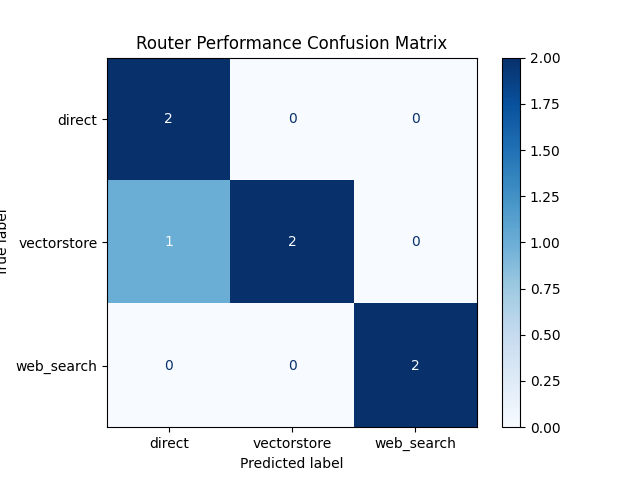
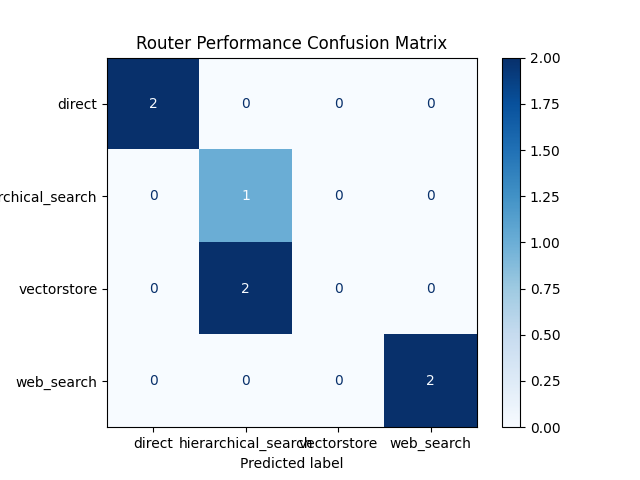
混合检索

diff --git a/evaluation/evaluation.py b/evaluation/evaluation.py
@@ -1,6 +1,6 @@
 # -*- coding: utf-8 -*-
 """
-@desc: RAG各环节评估脚本（已适配分层检索架构）
+@desc: RAG各环节评估脚本（已适配智能混合检索架构）
 """
 import sys
 import os
@@ -26,8 +26,6 @@ from agentic_rag.nodes import (
     rewrite_query_node,
     grade_relevance_node
 )
-# 导入新的分层检索器
-from agentic_rag.hierarchical_retriever import hierarchical_retriever
 # 导入项目中已配置好的llm和embedding function，用于传递给Ragas
 from agentic_rag.chains import llm, get_embedding_function
 
@@ -37,8 +35,7 @@ DATASET_PATH = os.path.join(os.path.dirname(__file__), "golden_dataset.csv")
 
 def evaluate_router():
     """
-    评估路由节点（route_query_node）的性能。
-    此函数无需修改，因为route_query_node内部已更新为分层检索，改动被良好地封装了。
+    评估路由节点（route_query_node）的决策性能。
     """
     print("--- 开始评估【路由】环节 ---")
     
@@ -51,13 +48,27 @@ def evaluate_router():
     predictions = []
     ground_truth = []
 
+    # 更新理想路由以匹配新的策略
+    # 例如，将旧的 'vectorstore' 映射到新的策略
+    def map_ideal_route(row):
+        if row['question'].startswith("解释") or row['question'].startswith("总结"):
+            return "hierarchical_search"
+        # 这是一个简化的示例，您应该根据问题内容更精细地标注
+        if "国家药品编码" in row['question']:
+             return "direct_chunk_search"
+        return row['ideal_route'] # 保留原有的 web_search, direct
+
+    df['ideal_route_new'] = df.apply(map_ideal_route, axis=1)
+
+
     for index, row in tqdm(df.iterrows(), total=df.shape[0], desc="测试路由节点"):
         question = row['question']
-        ideal_route = row['ideal_route']
+        ideal_route = row['ideal_route_new']
         
         initial_state = AgentState(query=question, documents=[], response="", route="", is_relevant=False, updated_query="", error=None)
         
         try:
+            # 只获取路由决策，不关心其返回的文档
             output_state = route_query_node(initial_state)
             predicted_route = output_state.get("route")
         except Exception as e:
@@ -90,9 +101,9 @@ def evaluate_router():
 
 def evaluate_generator_and_retriever():
     """
-    评估检索器和生成器（retriever & generate_response_node）的性能。
+    评估智能路由、检索、生成这条完整链路的端到端性能。
     """
-    print("\n--- 开始评估【检索和生成】环节 ---")
+    print("\n--- 开始评估【端到端检索与生成】环节 ---")
     
     try:
         df = pd.read_csv(DATASET_PATH)
@@ -100,9 +111,10 @@ def evaluate_generator_and_retriever():
         print(f"错误：评估数据集 '{DATASET_PATH}' 未找到ảng")
         return
 
-    rag_questions_df = df[df['ideal_route'] == 'vectorstore'].copy()
+    # 我们将评估所有需要从本地知识库检索的场景
+    rag_questions_df = df[df['ideal_route'].isin(['vectorstore', 'direct_chunk_search', 'hierarchical_search'])].copy()
     if rag_questions_df.empty:
-        print("数据集中没有找到 'ideal_route' 为 'vectorstore' 的问题，跳过生成评估ảng")
+        print("数据集中没有找到需要本地检索的问题，跳过生成评估ảng")
         return
 
     questions = []
@@ -110,35 +122,34 @@ def evaluate_generator_and_retriever():
     retrieved_contexts = []
     ideal_answers = []
 
-    for index, row in tqdm(rag_questions_df.iterrows(), total=rag_questions_df.shape[0], desc="测试生成节点"):
+    for index, row in tqdm(rag_questions_df.iterrows(), total=rag_questions_df.shape[0], desc="测试端到端生成"):
         question = row['question']
         
-        current_state = AgentState(query=question, documents=[], response="", route="vectorstore", is_relevant=False, updated_query="", error=None)
-
+        # --- 模拟真实的Graph执行流程 ---
+        # 1. 调用路由和检索节点
         try:
-            rewrite_output = rewrite_query_node(current_state)
-            current_state['updated_query'] = rewrite_output['updated_query']
+            state_after_route = route_query_node(AgentState(query=question, documents=[], response="", route="", is_relevant=False, updated_query="", error=None))
         except Exception as e:
-            print(f"重写节点执行出错: {e}")
-            current_state['updated_query'] = question
+            print(f"路由节点在评估中出错: {e}")
+            continue
 
-        # --- 修改点：调用新的分层检索器 ---
+        # 2. 调用重写节点
         try:
-            retrieved_docs = hierarchical_retriever(current_state['updated_query'])
-            contexts = [doc.page_content for doc in retrieved_docs]
-            current_state['documents'] = retrieved_docs
+            state_after_rewrite = rewrite_query_node(state_after_route)
         except Exception as e:
-            print(f"分层检索器执行出错: {e}")
-            contexts = []
-            current_state['documents'] = []
+            print(f"重写节点在评估中出错: {e}")
+            state_after_rewrite = state_after_route # 出错则跳过
 
+        # 3. 调用生成节点
         try:
-            generate_output = generate_response_node(current_state)
-            answer = generate_output.get("response")
+            final_state = generate_response_node(state_after_rewrite)
+            answer = final_state.get("response", "")
         except Exception as e:
-            print(f"生成节点执行出错: {e}")
+            print(f"生成节点在评估中出错: {e}")
             answer = ""
 
+        # 收集Ragas所需的数据
+        contexts = [doc.page_content for doc in state_after_route.get("documents", [])]
         questions.append(question)
         generated_answers.append(answer)
         retrieved_contexts.append(contexts)
@@ -160,15 +171,10 @@ def evaluate_generator_and_retriever():
     try:
         result = evaluate(
             dataset=dataset,
-            metrics=[
-                faithfulness,       
-                answer_relevancy,   
-                context_recall,     
-            ],
+            metrics=[faithfulness, answer_relevancy, context_recall],
             llm=llm,
             embeddings=get_embedding_function(),
         )
-
         print(result)
         result_df = result.to_pandas()
         result_df.to_csv(os.path.join(os.path.dirname(__file__), "generator_ragas_report.csv"), index=False)
@@ -177,19 +183,10 @@ def evaluate_generator_and_retriever():
         print(f"Ragas评估执行出错: {e}")
 
 
-def evaluate_grader():
-    """
-    评估相关性评估节点（grade_relevance_node）的性能。
-    """
-    print("\n--- 【评估】环节评估（占位） ---")
-    print("评估'评估节点'需要一个专门的数据集ảng")
-
-
 def main():
     """主函数，按顺序执行所有评估。"""
     evaluate_router()
     evaluate_generator_and_retriever()
-    evaluate_grader()
 
 if __name__ == "__main__":
     main()

diff --git a/agentic_rag/chains.py b/agentic_rag/chains.py
@@ -54,7 +54,7 @@ def get_embedding_function():
 
 class RouteQuery(BaseModel):
     """根据用户问题决定路由策略。"""
-    datasource: str = Field(description="根据问题，选择‘vectorstore’或‘web_search’或‘direct’中的一种。")
+    datasource: str = Field(description="根据问题类型，从 ‘direct_chunk_search’, ‘hierarchical_search’, ‘web_search’, ‘direct’ 中选择一种最合适的路由策略。")
 
 class RewriteQuery(BaseModel):
     """一个经过优化的、更适合检索的用户问题版本。"""
@@ -67,10 +67,10 @@ class RelevanceGrade(BaseModel):
 # --- LLM 链定义 ---
 
 def get_query_router_chain():
-    """获取查询路由链"""
+    """获取查询路由链（已升级为智能路由）"""
     parser = JsonOutputParser(pydantic_object=RouteQuery)
     prompt = ChatPromptTemplate.from_messages([
-        ("system", "你是一个查询路由专家。下面提供了一些从本地知识库检索到的、可能与用户问题相关的文档。请根据用户问题和这些文档，判断最合适的知识源。\n\n--- 上下文文档 ---\n{context}\n--- 上下文文档结束 ---\n\n决策指南：\n1. 如果上下文文档内容与用户问题高度相关，能够直接用于回答问题，请选择‘vectorstore’。\n2. 如果上下文文档不相关，但问题看起来需要最新的信息或广泛的通用知识，请选择‘web_search’。\n3. 如果问题非常简单，模型自身的知识就足够回答（例如“你好”），请选择‘direct’。\n\n{format_instructions}"),
+        ("system", "你是一位查询路由专家。请仔细分析用户的问题，并根据以下指南选择最合适的检索策略。\n\n决策指南：\n1. 如果问题是在**查找一个具体的、已知的实体**（例如药品名称、产品型号、公司名、特定术语），这类查询需要最高的查全率，请选择 ‘direct_chunk_search’。\n2. 如果问题是**开放性的、概念性的**（例如‘解释一下什么是RAG’、‘总结一下某某文件的主要内容’），需要先理解文档主旨再找细节，请选择 ‘hierarchical_search’。\n3. 如果问题需要**最新的信息**或广泛的通用知识（例如‘今天天气怎么样’、‘介绍一下最近的AI进展’），请选择 ‘web_search’。\n4. 如果问题是**简单的对话或问候**（例如‘你好’），请选择 ‘direct’。\n\n{format_instructions}"),
         ("human", "问题: {query}")
     ]).partial(format_instructions=parser.get_format_instructions())
     return prompt | llm | parser

diff --git a/agentic_rag/nodes.py b/agentic_rag/nodes.py
@@ -11,31 +11,36 @@ from agentic_rag.chains import (
     get_query_router_chain, get_initial_rewriter_chain, get_correctional_rewriter_chain, 
     get_relevance_grader_chain, llm
 )
-from agentic_rag.hierarchical_retriever import hierarchical_retriever
+from agentic_rag.hierarchical_retriever import hierarchical_retriever, direct_chunk_retriever
 from agentic_rag.retrievers import get_web_search_tool
 from agentic_rag.state import AgentState
 
 # --- 节点函数定义 ---
 
 def route_query_node(state: AgentState) -> dict:
-    """路由节点：预先从向量库检索，然后根据上下文决定下一步操作。"""
-    print("--- 路由查询 ---")
+    """智能路由节点：首先决定路由策略，然后根据策略执行相应的检索。"""
+    print("--- 智能路由与调度 ---")
     query = state["query"]
     
-    # 1. 预检索
-    print("--- 使用分层检索进行预检索 ---")
-    documents = hierarchical_retriever(query)
-    
-    # 2. 带上下文的路由决策
+    # 1. 调用不带上下文的路由链进行决策
     router_chain = get_query_router_chain()
-    result = router_chain.invoke({"query": query, "context": documents})
-    print(f"路由决策: {result['datasource']}")
+    result = router_chain.invoke({"query": query})
+    route = result['datasource']
+    print(f"路由决策: {route}")
+
+    # 2. 根据决策执行操作
+    documents = []
+    if route == 'hierarchical_search':
+        print("--- 执行分层检索 ---")
+        documents = hierarchical_retriever(query)
+    elif route == 'direct_chunk_search':
+        print("--- 执行直接区块检索 ---")
+        documents = direct_chunk_retriever(query)
+    # 对于 web_search 和 direct，此节点不执行操作，仅传递路由决策
     
-    # 返回决策和已检索的文档
     return {
-        "route": result['datasource'], 
-        "documents": documents, 
-        "query": query
+        "route": route,
+        "documents": documents,
     }
 
 def web_search_node(state: AgentState) -> dict:

diff --git a/ingest.py b/ingest.py
@@ -146,7 +146,7 @@ def load_documents_from_directory(directory_path):
                 df = pd.read_excel(file_path)
                 for index, row in df.iterrows():
                     content_parts = []
-                    metadata = {"source": file_path, "row_index": index}
+                    metadata = {"source": file_path, "row_index": index, "data_type": "tabular"}
                     for col_name in df.columns:
                         value = row[col_name]
                         value_str = str(value) if not pd.isna(value) else ""
@@ -157,7 +157,11 @@ def load_documents_from_directory(directory_path):
                     documents.append(doc)
             elif ext in loader_map:
                 loader = loader_map[ext](file_path, encoding='utf-8') if ext == ".txt" else loader_map[ext](file_path)
-                documents.extend(loader.load())
+                loaded_docs = loader.load()
+                # 为叙事型文档打上标签
+                for doc in loaded_docs:
+                    doc.metadata["data_type"] = "narrative"
+                documents.extend(loaded_docs)
         except Exception as e:
             print(f"加载文件 {file_path} 失败: {e}")
     return documents

diff --git a/agentic_rag/hierarchical_retriever.py b/agentic_rag/hierarchical_retriever.py
@@ -76,3 +76,27 @@ def hierarchical_retriever(query: str, n_docs=3, n_chunks=5) -> list[Document]:
         )
         
     return final_chunks
+
+def direct_chunk_retriever(query: str, n_chunks=5) -> list[Document]:
+    """
+    直接在区块集合中进行检索，用于表格型数据或需要高召回率的场景。
+    """
+    print("--- 执行直接区块检索 ---")
+    chunk_results = chunk_collection.query(
+        query_texts=[query],
+        n_results=n_chunks,
+        # 可选：未来可以增加where过滤器，如 where={"data_type": "tabular"}
+    )
+
+    if not chunk_results or not chunk_results.get('documents') or not chunk_results['documents'][0]:
+        print("在区块中未找到匹配项。")
+        return []
+
+    # 将检索结果格式化为LangChain的Document对象
+    final_chunks = []
+    for i, doc_text in enumerate(chunk_results['documents'][0]):
+        final_chunks.append(
+            Document(page_content=doc_text, metadata=chunk_results['metadatas'][0][i])
+        )
+        
+    return final_chunks

diff --git a/agentic_rag/graph.py b/agentic_rag/graph.py
@@ -38,7 +38,8 @@ def build_graph():
         lambda state: state["route"],
         {
             "web_search": "rewrite_query",
-            "vectorstore": "rewrite_query",
+            "hierarchical_search": "rewrite_query",
+            "direct_chunk_search": "rewrite_query",
             "direct": "direct_response"
         }
     )
@@ -52,7 +53,8 @@ def build_graph():
         lambda state: state["route"],
         {
             "web_search": "web_search",
-            "vectorstore": "generate_response" # <--- 直接指向生成答案
+            "hierarchical_search": "generate_response", # 检索已在路由节点完成
+            "direct_chunk_search": "generate_response"  # 检索已在路由节点完成
         }
     )
 

diff --git a/README.md b/README.md
@@ -11,34 +11,33 @@
 - **动态知识源**：集成了本地向量数据库（ChromaDB）和实时网络搜索（Tavily）。
 - **高度可配置**：支持切换不同的语言模型和嵌入模型，兼容OpenAI API格式的各种模型（包括本地部署的Ollama、VLLM等）和本地Sentence-Transformers模型。
 - **模块化设计**：代码结构清晰，分为状态、节点、链、图等模块，便于维护和二次开发。
-- **分层检索 (Hierarchical Retrieval)**：采用“摘要-区块”两级索引，先通过摘要快速定位相关文档，再从相关文档中提取精准的上下文区块，显著提升复杂知识库下的检索精度和效率。
+- **智能混合检索 (Intelligent Hybrid Retrieval)**：Agent可根据问题类型（概念理解 vs. 精确查找）自动选择最优检索策略（分层检索或直接检索），解决了特定实体查不准、查不全的问题。
 
-## 3. 架构升级：分层检索
+## 3. 架构升级：智能混合检索
 
-为了解决传统RAG在大型知识库中检索精度不足和上下文碎片化的问题，本项目已升级为**分层检索（Hierarchical Retrieval）**架构。
+为了根治“大海捞针”和“特定条目查不全”的矛盾，本项目架构已升级为**智能混合检索（Intelligent Hybrid Retrieval）**模式。
 
-其核心思想是将知识索引分为两个层级：
+Agent的核心不再是单一的检索链路，而是一个更聪明的**智能调度器**。它首先仅根据用户问题本身进行意图分析，然后决定调用哪一种最合适的“武器”去获取知识：
 
-1.  **摘要层 (Summary Level)**：这一层存储了每份完整文档的AI生成摘要。它像一本书的目录，帮助系统快速理解每份文档的核心内容。
-2.  **区块层 (Chunk Level)**：这一层存储了从文档中切分出的、细粒度的文本块，用于提供最终答案所需的精确引文。
+1.  **直接区块检索 (Direct Chunk Search)**：当用户查询一个**具体实体**（如药品名、产品型号）时，Agent会选择此策略。它将直接在最细粒度的“区块层”进行高精度搜索，确保最高的查全率。
 
-检索过程分为两步：
+2.  **分层检索 (Hierarchical Search)**：当用户提出一个**开放性、概念性**问题时，Agent则采用此策略。它会先通过“摘要层”定位相关文档，再到文档内部寻找答案，保证了上下文的完整性。
 
-- **第一步：文档定位**：用户的查询首先与“摘要层”进行匹配，快速找到最相关的几份**文档**。
-- **第二步：内容提取**：系统仅在这几份已锁定的相关文档中，对其包含的“区块”进行二次检索，从而找到最精准的**上下文**。
-
-这种“先找书，再翻页”的模式，极大地提高了检索的信噪比，为生成高质量答案提供了坚实的基础。
+这种设计让Agent能“因材施教”，针对不同问题采用不同策略，兼顾了查全率与查准率，是构建强大RAG系统的关键。
 
 ## 4. 系统流程
 
-系统的工作流程遵循一个有向图（Graph），其核心步骤如下：
+系统的工作流程已升级，其核心步骤如下：
 
-1.  **路由查询 (Route Query)**：接收用户问题，使用LLM分析其意图，决定最合适的处理路径（`direct`, `vectorstore`, `web_search`）。
-2.  **直接回答 (Direct Response)**：如果问题简单，LLM直接生成答案。
-3.  **重写查询 (Rewrite Query)**：如果需要检索，首先使用LLM优化和改写用户问题，使其更适合作为搜索引擎或向量数据库的输入。
-4.  **知识检索 (Retrieve/Search)**：根据第1步的路由决策，从本地向量数据库或互联网上检索相关信息。
-5.  **生成答案 (Generate Response)**：LLM结合检索到的上下文信息和优化后的问题来生成答案。
-6.  **评估相关性 (Grade Relevance)**：使用LLM评估生成的答案是否与原始问题相关。
+1.  **智能路由 (Route Query)**：接收用户问题，LLM**仅根据问题本身**分析其意图，决定最合适的处理路径（`direct_chunk_search`, `hierarchical_search`, `web_search`, `direct`）。
+
+2.  **知识检索 (Retrieve)**：**仅当**路由决策需要从本地知识库检索时，此步骤被激活。Agent会根据第1步的决策，调用对应的检索函数（直接区块检索或分层检索）来获取上下文。
+
+3.  **重写查询 (Rewrite Query)**：如果需要从知识库或网络检索，首先使用LLM优化和改写用户问题，使其更适合作为后续检索的输入。
+
+4.  **生成答案 (Generate Response)**：LLM结合检索到的上下文信息和优化后的问题来生成答案。
+
+5.  **评估相关性 (Grade Relevance)**：使用LLM评估生成的答案是否与原始问题相关。
     -   **如果相关**：流程结束，将答案返回给用户。
     -   **如果不相关**：流程自动跳转回第3步（重写查询），开始新一轮的尝试。
 
